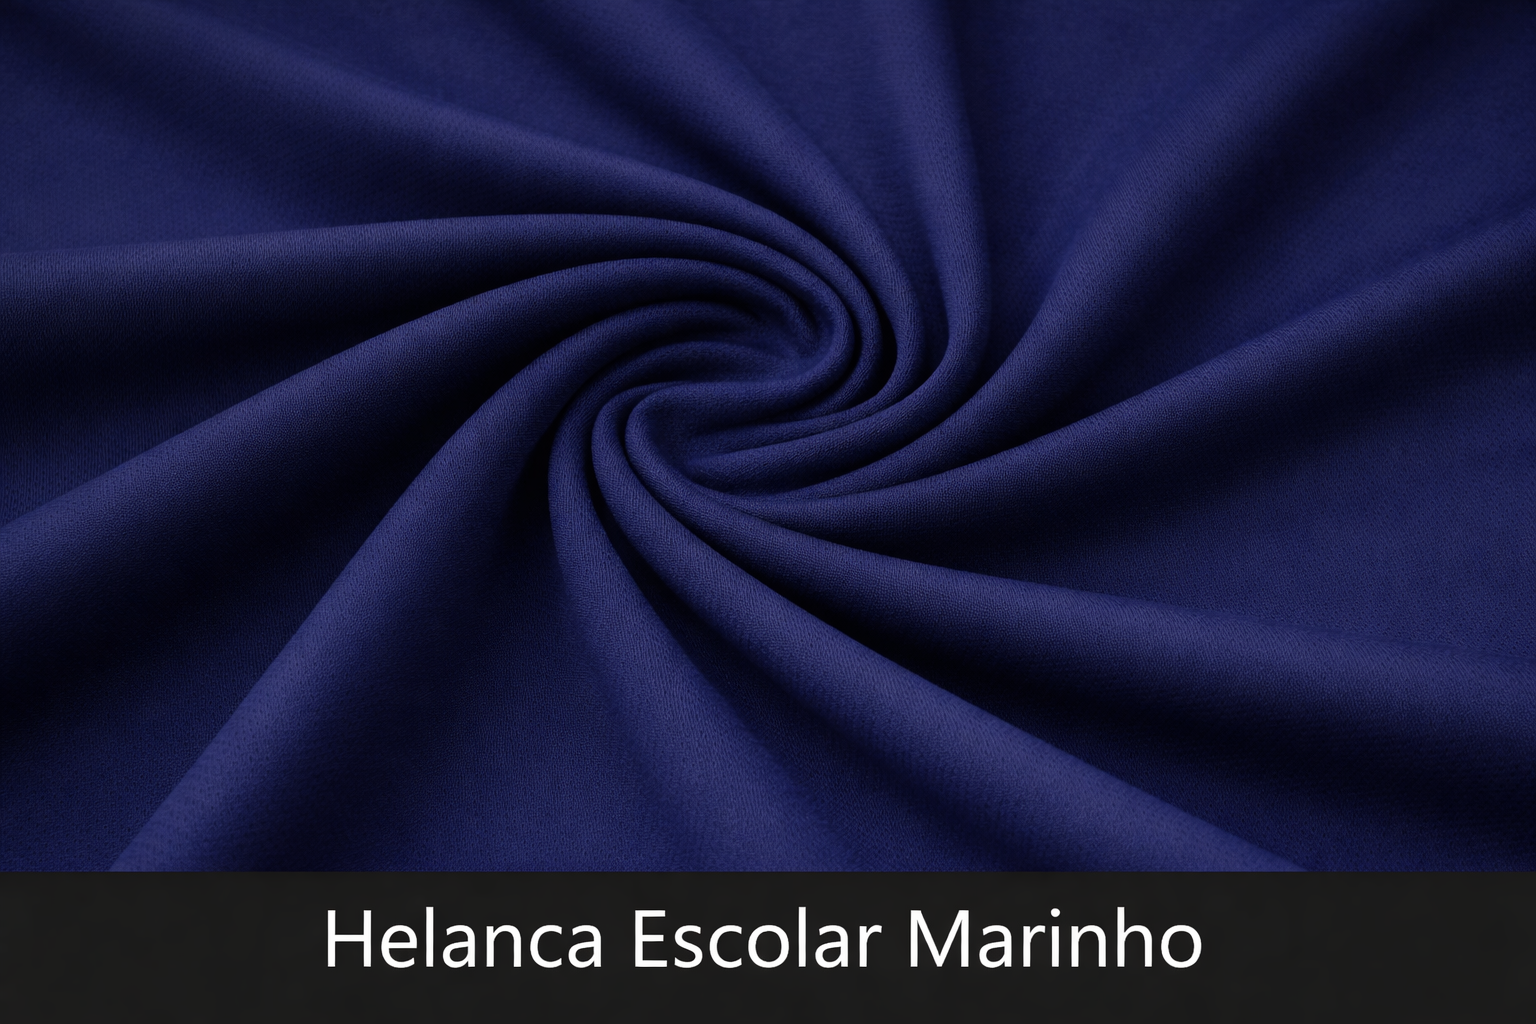
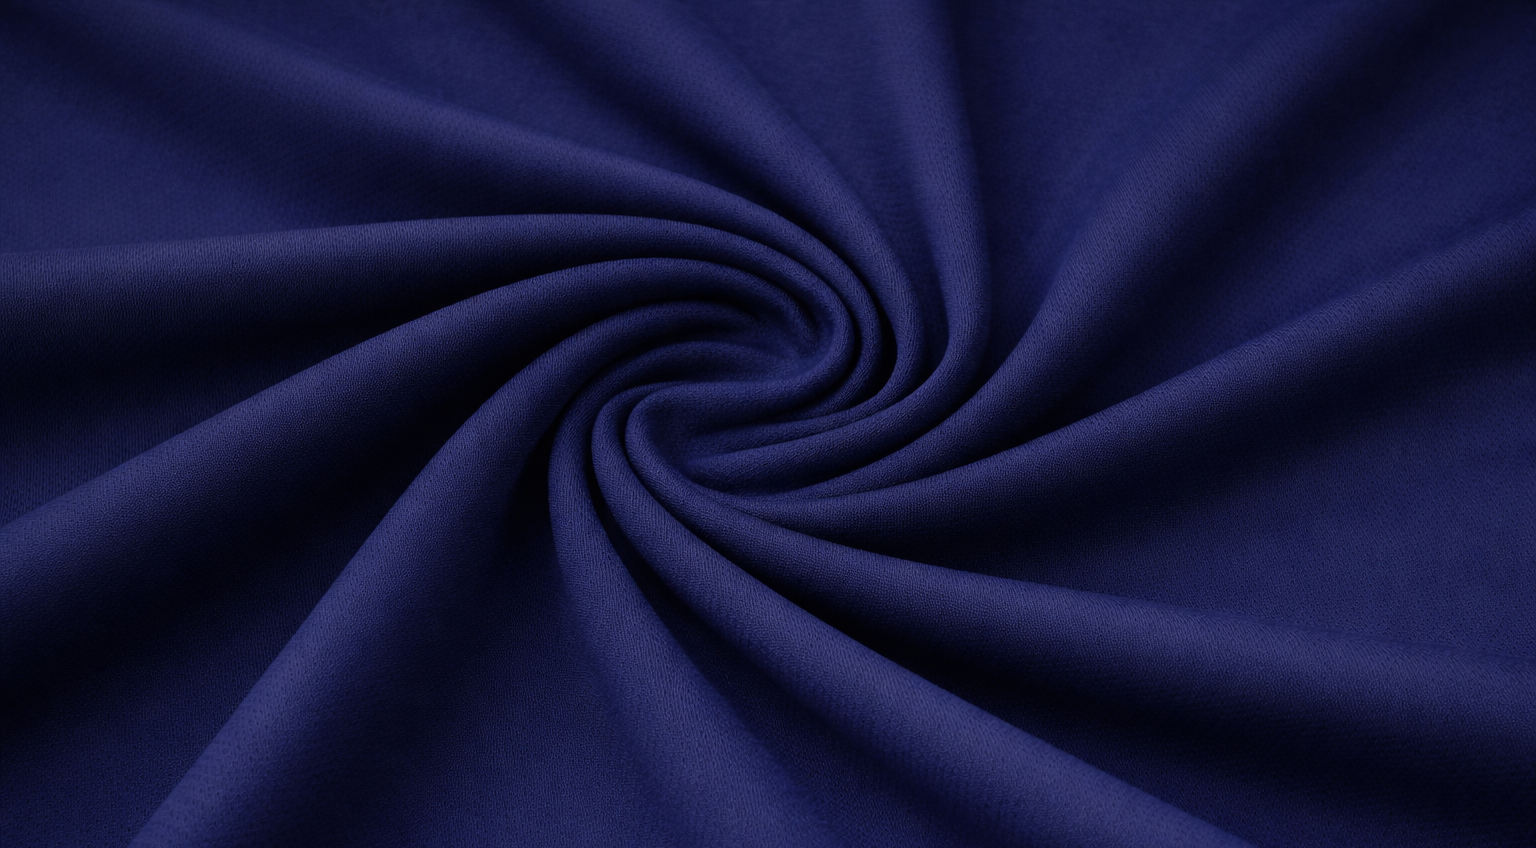
Sincronizando imagens no checkout.js com nomes atualizados

diff --git a/js/checkout.js b/js/checkout.js
@@ -30,8 +30,8 @@ document.addEventListener('DOMContentLoaded', async function () {
             name: 'Malha Piquet',
             specs: ['Textura diferenciada', 'Respirabilidade superior', 'Elegância casual', 'Versatilidade'],
             colors: {
-                'azul-marinho': 'azul-marinho-piquet-pv.jpg',
-                'vermelho': 'vermelho-piquet-pv.jpg',
+                'azul-marinho': 'azul-marinho-piquet.png',
+                'vermelho': 'vermelho-piquet.jpg',
                 'cinza-chumbo': 'malha-piquet-pa-cinza-chumbo.jpg',
                 'verde-bandeira': 'malha-piquet-pa-bandeira.jpg',
                 'branco': 'malha-piquet-branca.jpg',
@@ -64,7 +64,7 @@ document.addEventListener('DOMContentLoaded', async function () {
             colors: {
                 'variadas': 'dry-fit.png',
                 'azul': 'dry-fit.png',
-                'azul-royal': 'dry-fit.png',
+                'azul-royal': 'dry-fit-azul-royal.png',
                 'branco': 'dry-fit-branco.png',
                 'preto': 'dry-fit-preto.jpg'
             }
@@ -74,7 +74,7 @@ document.addEventListener('DOMContentLoaded', async function () {
             specs: ['Caimento Fluido', 'Toque Gelado', 'Conforto', '96% Viscose'],
             colors: {
                 'variadas': 'viscose.png',
-                'vermelha': 'viscose.png',
+                'vermelha': 'viscose-vermelha.png',
                 'cinza-mescla': 'viscose-cinza-mescla.png',
                 'vinho': 'viscose-vinho.jpg'
             }
@@ -93,7 +93,7 @@ document.addEventListener('DOMContentLoaded', async function () {
             name: 'Helanca Escolar',
             specs: ['Indestrutível', 'Não Desbota', '100% Poliéster', 'Uso Diário'],
             colors: {
-                'azul-marinho': 'helanca-escolar.png',
+                'azul-marinho': 'helanca-escolar-marinho.png',
                 'verde-bandeira': 'helanca-escolar-verde-bandeira.png',
                 'cinza': 'helanca-escolar-cinza.png',
                 'variadas': 'helanca-escolar.png'
@@ -104,7 +104,7 @@ document.addEventListener('DOMContentLoaded', async function () {
             specs: ['Nobre e Prático', 'Não Amarrota', '100% Poliéster', 'Camisaria/Avental'],
             colors: {
                 'variadas': 'oxford.png',
-                'cinza': 'oxford.png',
+                'cinza': 'oxford-cinza.png',
                 'azul-marinho': 'oxford.png',
                 'vermelho': 'oxford-vermelho.jpg'
             }
